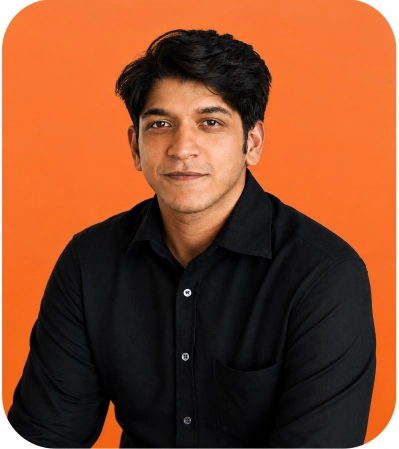
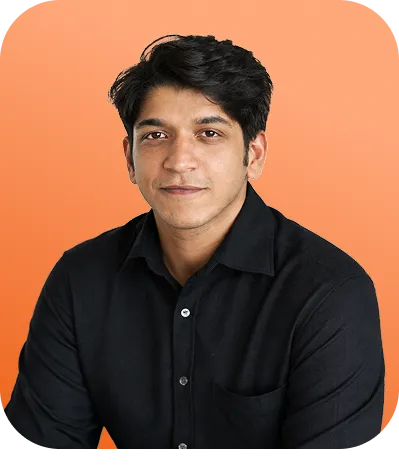
change in new index and placement page also adde new images of learner

diff --git a/css-new/styles.css b/css-new/styles.css
@@ -372,7 +372,7 @@ a { text-decoration: none; }
 
 .learner-item {
     width: 100px;
-    height: 120px;
+    height: 140px;
     background: #f3f4f6;
     border-radius: 10px;
     display: flex;
@@ -400,7 +400,7 @@ a { text-decoration: none; }
     overflow: hidden;
 }
 
-.company-logo { max-width: 100%; max-height: 25px; object-fit: contain; }
+.company-logo { max-width: 100%; max-height: 35px; object-fit: contain; }
 .learner-photo { width: 100%; height: 100%; object-fit: contain; object-position: bottom center; }
 
 .learner-li {
@@ -430,7 +430,7 @@ a { text-decoration: none; }
     background: #fff1e6;
     display: flex;
     align-items: center;
-    padding: 50px 1rem;
+    padding: 60px 1rem;
     border-radius: 12px;
     gap: 2rem;
 }

diff --git a/placement.php b/placement.php
@@ -152,12 +152,12 @@
                 <?php
                 // Replace these demo filenames after uploading the six individual learner-card images.
                 $placementLearners = [
-                    ['image' => 'placement-img-1.jpg', 'name' => 'Jayesh Shinde', 'role' => 'Relationship Trainee'],
-                    ['image' => 'placement-img-2.jpg', 'name' => 'Kruti Paranjpe', 'role' => 'Flight Support Executive'],
-                    ['image' => 'placement-img-3.jpg', 'name' => 'Jayesh Shinde', 'role' => 'Relationship Trainee'],
-                    ['image' => 'placement-img-4.jpg', 'name' => 'Jayesh Shinde', 'role' => 'Relationship Trainee'],
-                    ['image' => 'placement-img-5.jpg', 'name' => 'Jayesh Shinde', 'role' => 'Relationship Trainee'],
-                    ['image' => 'placement-img-6.jpg', 'name' => 'Jayesh Shinde', 'role' => 'Relationship Trainee'],
+                    ['image' => 'shantanu-nipankar-bw.webp', 'name' => 'Jayesh Shinde', 'role' => 'Trust & Safety Associate'],
+                    ['image' => 'kruti-paranjpe-bw.webp', 'name' => 'Kruti Paranjpe', 'role' => 'Sales Associate'],
+                    ['image' => 'darshan-sonawane-bw.webp', 'name' => 'Darshan Sonawane', 'role' => 'Talent Acquisition Associate'],
+                    ['image' => 'amol-narayan-bw.webp', 'name' => 'Amol Narayan', 'role' => 'Associate - Warehouse and E-commerce'],
+                    ['image' => 'vaishnavi-bhoite-bw.webp', 'name' => 'Vaishnavi Bhoite', 'role' => 'Executive'],
+                    ['image' => 'vivek-nehe-bw.webp', 'name' => 'Vivek Nehe', 'role' => 'Associate Technical Recruiter'],
                 ];
                 ?>
 
@@ -167,7 +167,7 @@
                             <?php foreach ($placementLearners as $learner): ?>
                                 <article class="placement-profile-card"<?php if ($repeat === 1): ?> aria-hidden="true"<?php endif; ?>>
                                     <img
-                                        src="assets-new/images/<?php echo htmlspecialchars($learner['image']); ?>"
+                                        src="assets-new/images/learners/<?php echo htmlspecialchars($learner['image']); ?>"
                                         alt="<?php echo htmlspecialchars($learner['name']); ?>"
                                         class="placement-profile-image"
                                     >
@@ -258,6 +258,9 @@
 
                 <?php
                 $placedByCompany = [
+                    'Accenture' => [
+                        ['name' => 'Shantanu Nipankar', 'designation' => 'Trust & Safety Associate', 'course' => 'Post Graduate Diploma in Management', 'specialization' => 'Finance Management'],
+                    ],
                     'AWL Agri Business Ltd' => [
                         ['name' => 'Ajit Patkar', 'designation' => 'Intern - Live Project', 'course' => 'Post Graduate Diploma in Management', 'specialization' => 'Logistics & Supply chain Management'],
                         ['name' => 'Pooja Aringle', 'designation' => 'Intern - Live Project', 'course' => 'Post Graduate Diploma in Management', 'specialization' => 'Finance Management'],
@@ -371,6 +374,9 @@
                         ['name' => 'Iyer Bhawani Chandrashekharan', 'designation' => 'AI Data Consultant', 'course' => 'Post Graduate Certificate in Management', 'specialization' => 'Business Analytics'],
                         ['name' => 'Mudaliyar Akash Nithyananthan', 'designation' => 'AI Data Consultant', 'course' => 'Post Graduate Diploma in Management', 'specialization' => 'Information Technology Management'],
                         ['name' => 'Shorbhika Raja Bhattacharya', 'designation' => 'AI Data Consultant', 'course' => 'Post Graduate Diploma in Management', 'specialization' => 'Human Resource Management'],
+                    ],
+                    'eTeam Inc' => [
+                        ['name' => 'Vivek Sampat Nehe', 'designation' => 'Associate Technical Recruiter', 'course' => 'Post Graduate Diploma in Management', 'specialization' => 'Associate Technical Recruiter'],
                     ],
                     'Edify Equity' => [
                         ['name' => 'Viral Chopra', 'designation' => 'Finance Research Analyst', 'course' => 'Post Graduate Certificate in Management', 'specialization' => 'Business Analytics'],
@@ -519,6 +525,12 @@
                     'NayePankh Foundation' => [
                         ['name' => 'Suthar Manju Babulal', 'designation' => 'Intern', 'course' => 'Post Graduate Certificate in Management', 'specialization' => 'Business Analytics'],
                         ['name' => 'Deep Kumar', 'designation' => 'Intern', 'course' => 'Post Graduate Diploma in Management', 'specialization' => 'Logistics and Supply Chain Management'],
+                    ],
+                    'Omadus Infotech' => [
+                        ['name' => 'Vaishnavi Bhoite', 'designation' => 'Executive', 'course' => 'Post Graduate Diploma in Management', 'specialization' => 'Marketing Management'],
+                    ],
+                    'Patterns Hiring LLC - US' => [
+                        ['name' => 'Darshan Sanjeev Sonawane', 'designation' => 'Talent Acquisition Associate', 'course' => 'Post Graduate Diploma in Management', 'specialization' => 'Finance Management'],
                     ],
                     'PRAN FINSERV Private Limited' => [
                         ['name' => 'Sable Om Suresh Sable', 'designation' => 'Field Executive', 'course' => 'Post Graduate Diploma in Management', 'specialization' => 'Logistics and Supply Chain Management'],

diff --git a/index.php b/index.php
@@ -159,60 +159,60 @@
             <div class="learner-track">
               <div class="learner-item">
                 <div class="logo-wrap">
-                  <img src="assets-new/images/rupeek-logo.png" alt="rupeek-logo" class="company-logo" />
+                  <img src="assets-new/images/learners/flipkart.webp" alt="flipkart-logo" class="company-logo" />
                 </div>
                 <div class="photo-wrap">
-                  <img src="assets-new/images/learner1.png" alt="Learner" class="learner-photo" />
+                  <img src="assets-new/images/learners/amol-narayan.webp" alt="Learner" class="learner-photo" />
                 </div>
                 <a class="learner-li" href="#" target="_blank" rel="noopener noreferrer"><i
                     class="fab fa-linkedin-in"></i></a>
               </div>
               <div class="learner-item">
                 <div class="logo-wrap">
-                  <img src="assets-new/images/easymytrip-logo.png" alt="easymytrip-logo" class="company-logo" />
+                  <img src="assets-new/images/learners/patterns.webp" alt="patterns-logo" class="company-logo" />
                 </div>
                 <div class="photo-wrap">
-                  <img src="assets-new/images/learner2.png" alt="Learner" class="learner-photo" />
+                  <img src="assets-new/images/learners/darshan-sonawane.webp" alt="Learner" class="learner-photo" />
                 </div>
                 <a class="learner-li" href="#" target="_blank" rel="noopener noreferrer"><i
                     class="fab fa-linkedin-in"></i></a>
               </div>
               <div class="learner-item">
                 <div class="logo-wrap">
-                  <img src="assets-new/images/emiza-logo.png" alt="emiza-logo" class="company-logo" />
+                  <img src="assets-new/images/learners/tech-mahindra.webp" alt="tech-mahindra-logo" class="company-logo" />
                 </div>
                 <div class="photo-wrap">
-                  <img src="assets-new/images/learner3.png" alt="Learner" class="learner-photo" />
+                  <img src="assets-new/images/learners/kruti-paranjpe.webp" alt="Learner" class="learner-photo" />
                 </div>
                 <a class="learner-li" href="#" target="_blank" rel="noopener noreferrer"><i
                     class="fab fa-linkedin-in"></i></a>
               </div>
               <div class="learner-item">
                 <div class="logo-wrap">
-                  <img src="assets-new/images/bharti-logo.png" alt="bharti-logo" class="company-logo" />
+                  <img src="assets-new/images/learners/accenture.webp" alt="accenture-logo" class="company-logo" />
                 </div>
                 <div class="photo-wrap">
-                  <img src="assets-new/images/learner1.png" alt="Learner" class="learner-photo" />
+                  <img src="assets-new/images/learners/shantanu-nipankar.webp" alt="Learner" class="learner-photo" />
                 </div>
                 <a class="learner-li" href="#" target="_blank" rel="noopener noreferrer"><i
                     class="fab fa-linkedin-in"></i></a>
               </div>
               <div class="learner-item">
                 <div class="logo-wrap">
-                  <img src="assets-new/images/hexaware-logo.png" alt="hexaware-logo" class="company-logo" />
+                  <img src="assets-new/images/learners/omadus.webp" alt="omadus-logo" class="company-logo" />
                 </div>
                 <div class="photo-wrap">
-                  <img src="assets-new/images/learner2.png" alt="Learner" class="learner-photo" />
+                  <img src="assets-new/images/learners/vaishnavi-bhoite.webp" alt="Learner" class="learner-photo" />
                 </div>
                 <a class="learner-li" href="#" target="_blank" rel="noopener noreferrer"><i
                     class="fab fa-linkedin-in"></i></a>
               </div>
               <div class="learner-item">
                 <div class="logo-wrap">
-                  <img src="assets-new/images/jktyre-logo.png" alt="jktyre-logo" class="company-logo" />
+                  <img src="assets-new/images/learners/e-team.webp" alt="e-team-logo" class="company-logo" />
                 </div>
                 <div class="photo-wrap">
-                  <img src="assets-new/images/learner3.png" alt="Learner" class="learner-photo" />
+                  <img src="assets-new/images/learners/vivek-nehe.webp" alt="Learner" class="learner-photo" />
                 </div>
                 <a class="learner-li" href="#" target="_blank" rel="noopener noreferrer"><i
                     class="fab fa-linkedin-in"></i></a>

diff --git a/header-new.php b/header-new.php
@@ -135,7 +135,7 @@ else $nav_active = '';
 
         <!-- <a href="#">Career Support Hub</a>
         <span class="divider">|</span> -->
-        <a href="international-relations"><strong>International Relations</strong></a>
+        <a href="international-relations"><strong>Global Exposure</strong></a>
 
         <div class="nav-actions">
             <a href="https://mitpro.mitsde.com/"><button class="btn-outline">Login</button></a>
